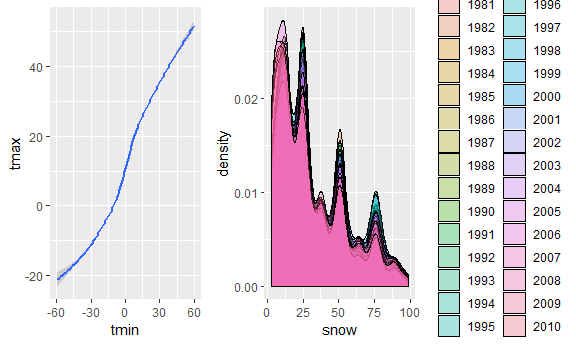
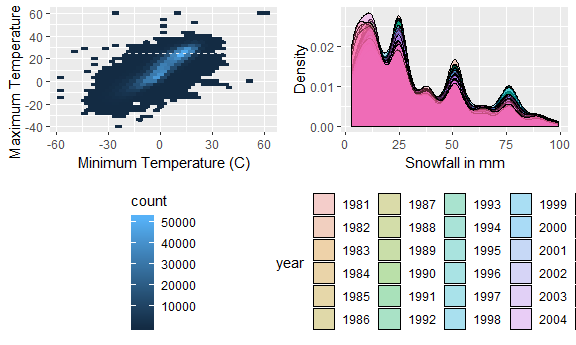
make final corrections and add comments to all parts

diff --git a/p8105_hw3_cj2493.md b/p8105_hw3_cj2493.md
@@ -13,7 +13,7 @@ data(brfss_smart2010)
 brfss_smart2010 = janitor::clean_names(brfss_smart2010) %>%
   filter(topic == "Overall Health") %>%
   select(-class, -topic, -question, -sample_size, -c(confidence_limit_low:geo_location)) %>%
-  mutate(response = factor(response, labels = c("Excellent", "Very Good", "Good", "Fair", "Poor")))
+  mutate(response = factor(response, labels = c("Poor", "Fair", "Good", "Very Good", "Excellent")))
 ```
 
 Some problem solving using the data:
@@ -44,7 +44,9 @@ brfss_spaghetti
 
 <img src="p8105_hw3_cj2493_files/figure-markdown_github/spaghetti_plot-1.png" width="90%" />
 
-Make a table showing, for the years 2002, 2006, and 2010, the mean and standard deviation of the proportion of "Excellent" responses across locations in NY state.
+This is not a very helpful plot because we can see that there is a state with a very high outlier, but we cannot tell which state it is; the colors are difficult to distinguish between.
+
+Make a table showing, for the years 2002, 2006, and 2010, the mean and standard deviation of the proportion of "Excellent" responses across locations in NY state:
 
 ``` r
 brfss_table_data = filter(brfss_smart2010, year == 2002 | year == 2006 | year == 2010) %>%
@@ -60,18 +62,20 @@ brfss_table_data
 
 |  year|  mean\_excellent|  sd\_excellent|
 |-----:|----------------:|--------------:|
-|  2002|         24.04000|       4.486424|
-|  2006|         22.53333|       4.000833|
-|  2010|         22.70000|       3.567212|
+|  2002|         30.64000|       5.099804|
+|  2006|         31.28333|       4.370545|
+|  2010|         34.13333|       5.250952|
 
-For each year and state, compute the average proportion in each response category (taking the average across locations in a state). Make a five panel plot that shows, for each response category separately, the distribution of these state level averages over time.
+This table tells us that the mean and standard deviation of proportions of excellent responses are similar across the years we looked at.
+
+For each year and state, compute the average proportion in each response category (taking the average across locations in a state). Make a five panel plot that shows, for each response category separately, the distribution of these state level averages over time:
 
 ``` r
 brfss_plot = brfss_smart2010 %>%
   group_by(year, locationabbr, response) %>%
   summarize(mean_prop = mean(data_value)) %>%
-  ggplot(aes(x = year, y = mean_prop)) + 
-  geom_point() + 
+  ggplot(aes(x = year, y = mean_prop, group = year)) + 
+  geom_boxplot() + 
   facet_grid(~response) +
   labs(x = "Year", y = "Mean Proportion", title = "Change in Mean Proportions Over Time by Response") +
   theme(axis.text.x = element_text(angle = 90, hjust = 1, vjust = 0.5))
@@ -79,9 +83,11 @@ brfss_plot = brfss_smart2010 %>%
 brfss_plot
 ```
 
-    ## Warning: Removed 21 rows containing missing values (geom_point).
+    ## Warning: Removed 21 rows containing non-finite values (stat_boxplot).
 
 <img src="p8105_hw3_cj2493_files/figure-markdown_github/five_panel_plot-1.png" width="90%" />
+
+This five panel plot gives us good reason to think that the proportions of responses are similar across years, but different among the level of response.
 
 Problem 2
 ---------
@@ -117,22 +123,37 @@ head(instacart)
 
 In the first row, the item is Bulgarian yogurt, was part of order 1, had id 49302, was the first item added to the cart, was ordered 9 days prior, and was located in aisle 120. There are 134 aisles, and the most items are ordered from aisle 83.
 
-Make a plot that shows the number of items ordered in each aisle. Order aisles sensibly, and organize your plot so others can read it.
+Make a plot that shows the number of items ordered in each aisle. Order aisles sensibly, and organize your plot so others can read it:
 
 ``` r
-instacart_num_items = instacart %>%
-  group_by(aisle_id) %>%
+instacart_num_items_1 = instacart %>%
+  filter(aisle_id >= 1 & aisle_id <= 67) %>%
+  group_by(aisle) %>%
   summarize(items_ordered = n()) %>%
-  ggplot(aes(x = aisle_id, y = items_ordered)) +
+  ggplot(aes(x = aisle, y = items_ordered)) +
   geom_bar(stat = "identity") +
-  labs(x = "Aisle Number", y = "Number of Items Ordered", title = "Number of Items Ordered in Each Aisle") 
+  labs(x = "Aisle", y = "Number of Items Ordered", title = "Number of Items Ordered in Each Aisle", cex = 0.5) +
+  theme(text = element_text(size = 8)) +
+  coord_flip()
 
-instacart_num_items
+instacart_num_items_2 = instacart %>%
+  filter(aisle_id > 67) %>%
+  group_by(aisle) %>%
+  summarize(items_ordered = n()) %>%
+  ggplot(aes(x = aisle, y = items_ordered)) +
+  geom_bar(stat = "identity") +
+  labs(x = "Aisle", y = "Number of Items Ordered", title = "Number of Items Ordered in Each Aisle") +
+  theme(text = element_text(size = 8)) +
+  coord_flip()
+
+instacart_num_items_1 + instacart_num_items_2
 ```
 
 <img src="p8105_hw3_cj2493_files/figure-markdown_github/aisle_plot-1.png" width="90%" />
 
-Make a table showing the most popular item in each of the aisles "baking ingredients", "dog food care", and "packaged vegatables fruits".
+This plot is naturally difficult to read because there are so many aisles. Splitting the plot into two helps, but it is still a lot of data to look at. What we can tell is there are a few aisles that are much more popular than the rest: fresh fruits, fresh vegetables, and packed vegetables & fruits.
+
+Make a table showing the most popular item in each of the aisles "baking ingredients", "dog food care", and "packaged vegatables fruits":
 
 ``` r
 pop_aisles = filter(instacart, aisle == "baking ingredients" | aisle == "dog food care" | aisle == "packaged vegetables fruits") %>%
@@ -149,7 +170,9 @@ pop_aisles
 | dog food care              | Snack Sticks Chicken & Rice Recipe Dog Treats |              30|
 | packaged vegetables fruits | Organic Baby Spinach                          |            9784|
 
-Make a table showing the mean hour of the day at which pink lady apples and coffee ice cream are ordered on each day of the week.
+From this table, we can see that across aisles there are large differences in how many items are bought in each aisle. It tells us that although they are all the most popular item in their respective aisle, the amount purchased varies. For example, the packaged vegetables and fruits aisle is more visited than the other two.
+
+Make a table showing the mean hour of the day at which pink lady apples and coffee ice cream are ordered on each day of the week:
 
 ``` r
 mean_hour = instacart %>%
@@ -169,6 +192,8 @@ mean_hour
 | Coffee Ice Cream |  13.77419|  14.31579|  15.38095|   15.31818|  15.21739|  12.26316|  13.83333|
 | Pink Lady Apple  |  14.40000|  14.20000|  13.20000|    8.00000|  11.00000|  16.00000|  13.00000|
 
+For this table, I assumed that 0 was Sunday and 7 was Saturday. I also assumed that the time is in terms of hours past midnight. The information in this table tells us that for both of these items, they are typically bought in the afternoon between noon and 4 pm. The exception to this is that pink lady apples tend to be bought in the morning between 8 and 11 am on Wednesdays and Thursdays.
+
 Problem 3
 ---------
 
@@ -180,6 +205,8 @@ ny_noaa = janitor::clean_names(ny_noaa)
 ```
 
 Describe the data:
+
+The ny\_noaa dataset containes 2595176 observations of 7 variables. Some of the variables include weather station, the date, precipitation in tenths of mm, snowfall in mm, snow depth in mm, maximum temperature in tenths of degrees Celsius, and minimum temperature in tenths of degrees Celsius. So, we must convert the variables into common measurement; this means converting precipitation into mm and maximum and minimum temperature into degrees Celsius. Unfortunately, the set contains a lot of missing data.
 
 Clean the data:
 
@@ -194,42 +221,52 @@ tidy_ny_noaa = separate(ny_noaa, date, into = c("year", "month", "day"), sep = "
          )
 ```
 
-Make a two-panel plot showing the average max temperature in January and in July in each station across years.
+Make a two-panel plot showing the average max temperature in January and in July in each station across years:
 
 ``` r
 jan_jul_ny_noaa = filter(tidy_ny_noaa, month == 1 | month == 7) %>%
   mutate(month = month.name[month]) %>%
-  group_by(year, month) %>%
+  group_by(year, month, id) %>%
   summarize(mean_tmax = mean(tmax, na.rm = TRUE)) %>%
   ggplot(aes(x = year, y = mean_tmax)) +
-  geom_line() + 
+  geom_point() + 
   theme(axis.text.x = element_text(angle = 90, hjust = 1, vjust = 0.5)) +
-  labs(x = "Year", y = "Mean Maximum Temperature, in Celsius", title = "Change in Temperature in New York") + 
+  labs(x = "Year", y = "Mean Maximum Temperature, in Celsius", title = "Change in Temperature in New York for Each Station") + 
   facet_grid(~month) 
 
 jan_jul_ny_noaa
 ```
 
+    ## Warning: Removed 5970 rows containing missing values (geom_point).
+
 <img src="p8105_hw3_cj2493_files/figure-markdown_github/unnamed-chunk-1-1.png" width="90%" />
+
+This tells us that the temperatures vary greatly between January and July, which intuitively makes sense. We also see that there is some variation across years, but not too much.
 
 Make a two panel plot (i) showing tmax vs tmin for the full dataset, and (ii) showing the distribution of snowfall values greater than 0 and less than 100 separately by year
 
 ``` r
 tmax_vs_tmin = tidy_ny_noaa %>%
   ggplot(aes(x = tmin, y = tmax)) +
-  geom_smooth()
+  geom_hex() +
+  theme(legend.position = "bottom", legend.direction = "vertical") +
+  labs(x = "Minimum Temperature (C)", y = "Maximum Temperature (C)")
 
 snow_dist = filter(tidy_ny_noaa, snow > 0 & snow < 100) %>%
   mutate(year = as.character(year)) %>%
   group_by(year) %>%
   ggplot(aes(x = snow, fill = year)) +
-  geom_density(alpha = .3)  
+  geom_density(alpha = .3)  +
+  theme(legend.position = "bottom") +
+  labs(x = "Snowfall in mm", y = "Density")
 
 tmax_vs_tmin + snow_dist
 ```
 
-    ## `geom_smooth()` using method = 'gam' and formula 'y ~ s(x, bs = "cs")'
-
-    ## Warning: Removed 1136276 rows containing non-finite values (stat_smooth).
+    ## Warning: Removed 1136276 rows containing non-finite values (stat_binhex).
 
 <img src="p8105_hw3_cj2493_files/figure-markdown_github/two_panel-1.png" width="90%" />
+
+From the plot of tmax and tmin, we can see that minimum temperature is positively correlated with maximum temperature, which intuitively makes sense. We can also guess that there are some incorrectly recorded temperatures, because 60 degrees Celsius is 140 degrees Farenheit, which is highly unlikey.
+
+From the plot of snowfall distribution, we can see that there are peaks that correspond to 1/2 inch, 1 inch, 2 inches, and 3 inches. This implies that when snowfall is recorded, it is often rounded to a whole number. This plot is also problematic because it's difficult to look at the differences between years. Similar to the spaghetti plot, there are too many years to easily differentiate. We can only roughly see where they're similar.
